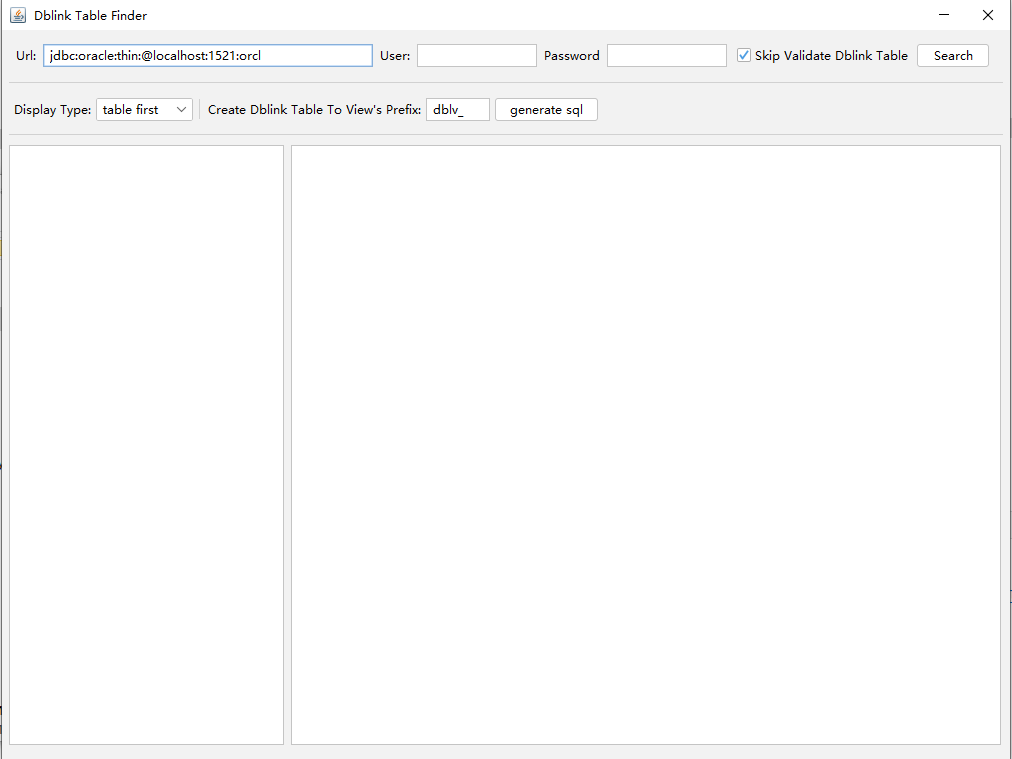
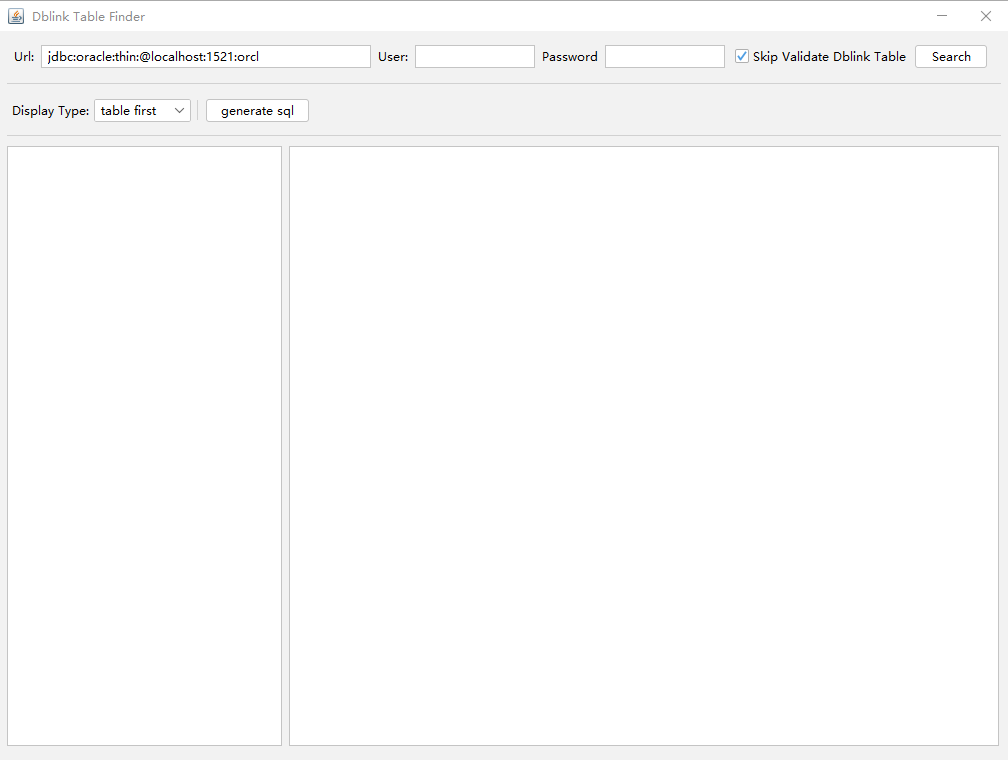
change generate sql  simple

diff --git a/src/main/java/com/jirefox/pgmagic/dblinkfinder/view/MainWindow.java b/src/main/java/com/jirefox/pgmagic/dblinkfinder/view/MainWindow.java
@@ -38,10 +38,6 @@ public class MainWindow extends JFrame {
 
     private JComboBox<String> displayTypeComboBox = new JComboBox<String>();
 
-    private JLabel viewPrefixLabel = new JLabel("Create Dblink Table To View's Prefix:");
-
-    private JTextField viewPrefixTextField = new JTextField("dblv_");
-
     private JButton genSqlBtn = new JButton("generate sql");
 
     private JTree dblinkTree = new JTree();
@@ -53,7 +49,7 @@ public class MainWindow extends JFrame {
 
     private TreeService treeService;
 
-    private GenSqlService genViewService;
+    private GenSqlService genSqlService;
 
 
     private SimpleAttributeSet style = new SimpleAttributeSet();
@@ -68,7 +64,7 @@ public class MainWindow extends JFrame {
         searchService = new SearchService(this);
         Connection h2 = searchService.initH2();
         treeService = new TreeService(this, h2);
-        genViewService = new GenSqlService(this, h2);
+        genSqlService = new GenSqlService(this, h2);
     }
 
     public void init() {
@@ -149,14 +145,10 @@ public class MainWindow extends JFrame {
         opSep.setPreferredSize(new Dimension(5, 20));
         operationPanel.add(opSep, "span ");
 
-        operationPanel.add(viewPrefixLabel);
-        operationPanel.add(viewPrefixTextField, "w 60!");
-
         genSqlBtn.addActionListener(new ActionListener() {
             @Override
             public void actionPerformed(ActionEvent e) {
-                String prefix = viewPrefixTextField.getText();
-                genViewService.genViewSql(prefix);
+                genSqlService.genSql();
             }
         });
         operationPanel.add(genSqlBtn);

diff --git a/src/main/java/com/jirefox/pgmagic/dblinkfinder/service/GenSqlService.java b/src/main/java/com/jirefox/pgmagic/dblinkfinder/service/GenSqlService.java
@@ -16,14 +16,12 @@ public class GenSqlService {
 
     private MainWindow mainWindow;
 
-    public static final String VIEW_FLAG = "/* dblink-observer-auto-generate */";
-
     public GenSqlService(MainWindow mainWindow, Connection h2) {
         this.mainWindow = mainWindow;
         this.h2 = h2;
     }
 
-    public void genViewSql(String prefix) {
+    public void genSql() {
         try {
             List<String> tableNames = qr.query(h2, "select distinct TABLE_NAME from OBJECT_TABLE order by  TABLE_NAME ASC", new ColumnListHandler<String>());
             String sql = "";
@@ -35,7 +33,7 @@ public class GenSqlService {
                 if (newName.indexOf('.') != -1) {
                     newName = newName.substring(newName.indexOf('.') + 1);
                 }
-                sql += "CREATE  OR REPLACE  VIEW " + VIEW_FLAG + prefix + newName + " as select *from " + name + ";\r\n ";
+                sql += "CREATE  OR REPLACE  VIEW " + newName + " as select * from " + name + ";\r\n ";
             }
             mainWindow.println(sql, Color.blue);
         } catch (Exception e) {
